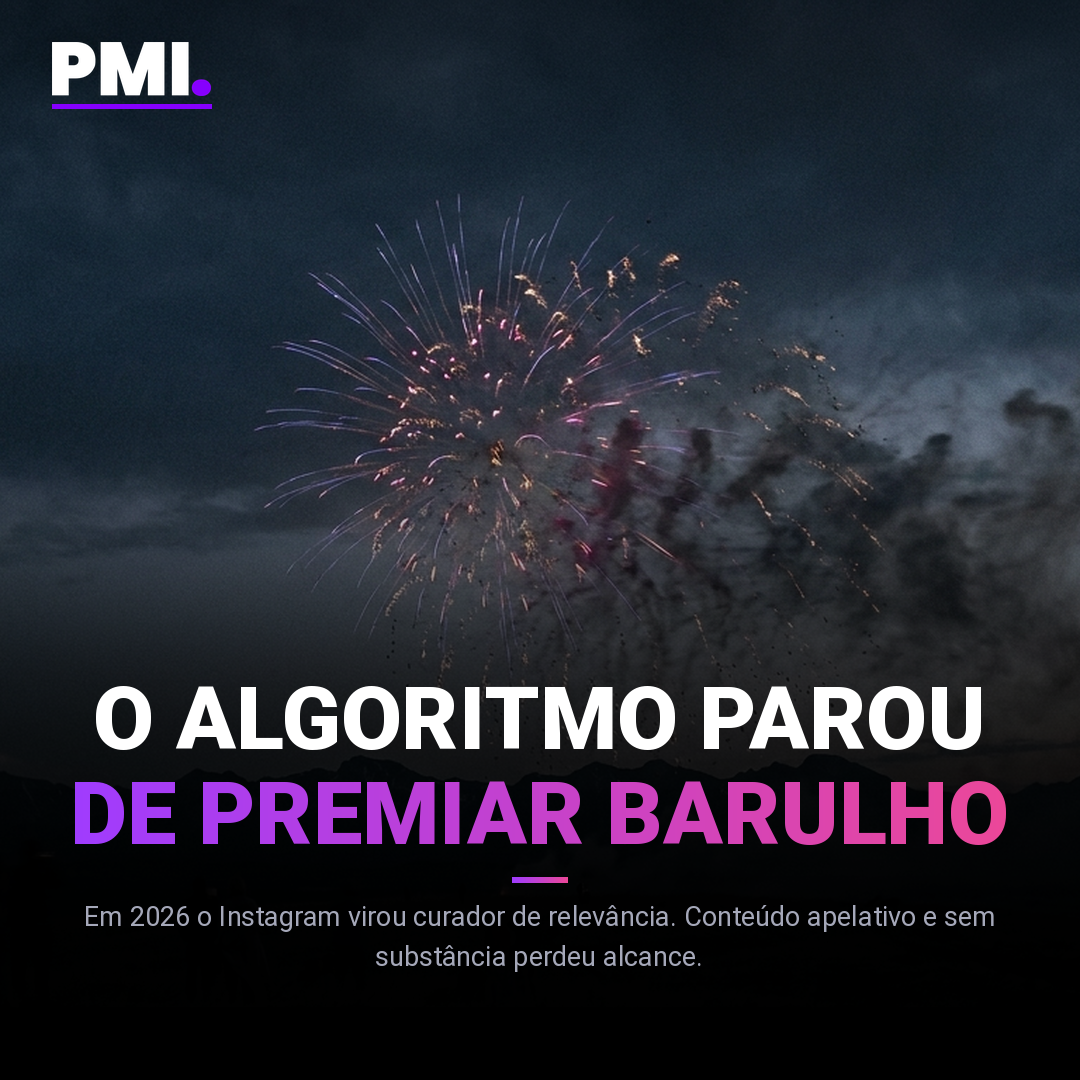
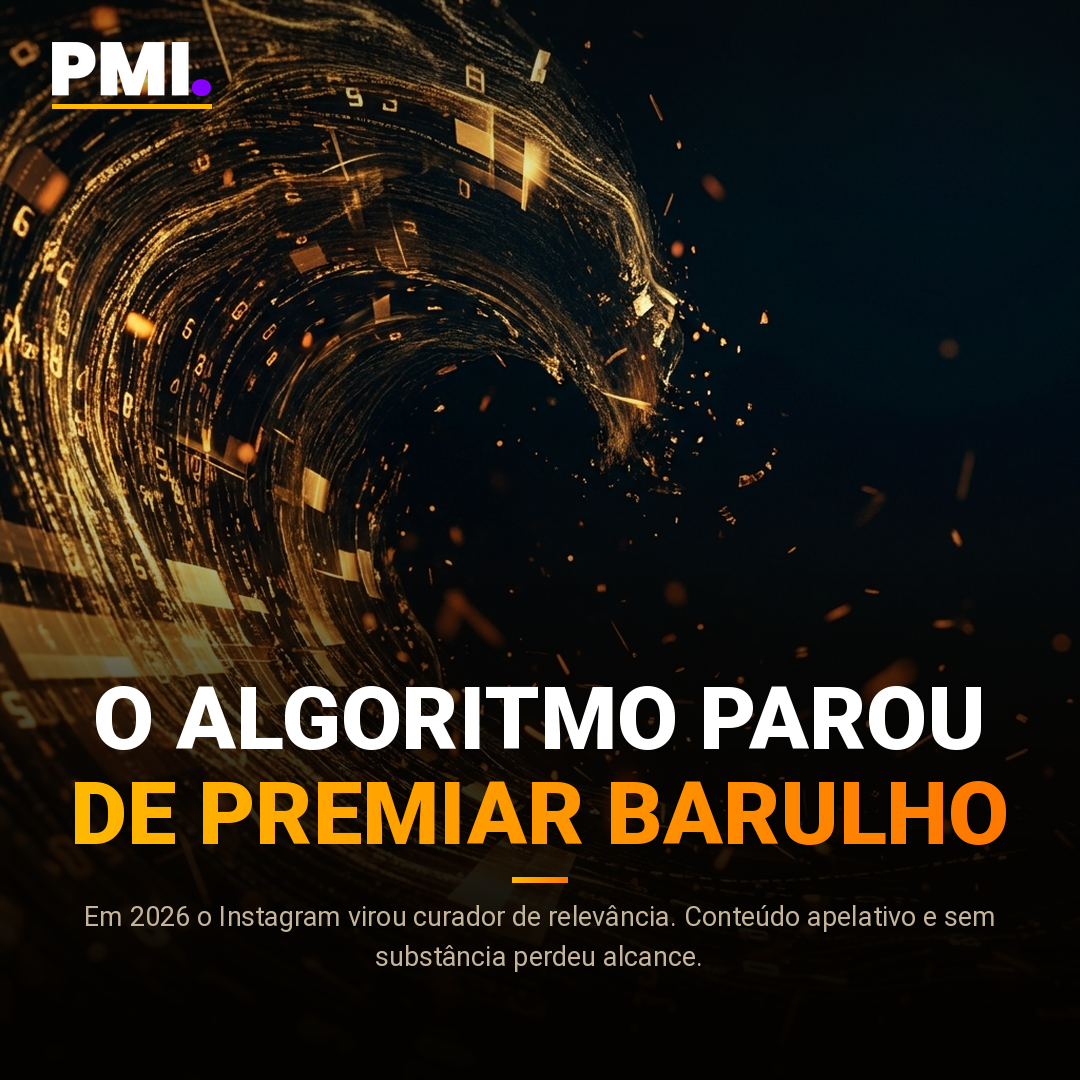
feat: carrossel 2 com identidade visual âmbar/dourado
Novos backgrounds fire editorial para C2, paleta completamente
diferente do C1 (violeta/rosa): gradientes dourado→laranja, overlay
warm tint, separador âmbar, tachado crimson em VIRAL, botões gold.

https://claude.ai/code/session_01S8Fw6EGhnFoALdeAFfWcbf

diff --git a/carrossel-pmi/build_carrossel_ia.py b/carrossel-pmi/build_carrossel_ia.py
@@ -7,11 +7,21 @@ import os
 W, H    = 1080, 1080
 MARGIN  = 60          # margem lateral
 MAX_W   = W - MARGIN*2
+
+# Paleta Carrossel 1 — Violeta/Rosa
 VIOLET  = (134, 0, 255)
 VLT     = (160, 60, 255)
 PINK    = (236, 72, 153)
+
+# Paleta Carrossel 2 — Âmbar/Dourado/Laranja
+GOLD    = (255, 185, 0)
+AMBER   = (255, 120, 0)
+CRIMSON = (200, 30, 30)   # tachado "VIRAL"
+CYAN2   = (0, 210, 190)   # separador C2
+
 WHITE   = (255, 255, 255)
 GRAY    = (165, 168, 185)
+WARM_GRAY = (195, 180, 155)  # subtítulo C2
 RED     = (220, 38, 38)
 
 R = "/usr/share/fonts/truetype/roboto/unhinted/RobotoTTF"
@@ -114,12 +124,44 @@ def darken_zone(canvas, y_top):
     base = canvas.convert("RGBA"); base.alpha_composite(tz)
     return base.convert("RGB")
 
-def sep_line(d, y, w=56):
+def sep_line(d, y, w=56, c1=None, c2=None):
+    if c1 is None: c1 = VLT
+    if c2 is None: c2 = PINK
     x = (W-w)//2
     for xi in range(w):
-        c = lerp(VLT, PINK, xi/max(1,w-1))
+        c = lerp(c1, c2, xi/max(1,w-1))
         d.line([(x+xi,y),(x+xi,y+5)], fill=c)
     return y+5
+
+# ── Overlay com tint quente (para C2) ─────────────────────────────
+def smoky_overlay_warm(img, top_s=140, bot_s=255, top_r=260, bot_r=660, blur=58):
+    """Mesmo smoky_overlay mas tint levemente âmbar escuro no fundo."""
+    ov = Image.new("RGBA", img.size, (0,0,0,0))
+    dv = ImageDraw.Draw(ov)
+    IW, IH = img.size
+    for y in range(top_r):
+        a = int(top_s * (1 - y/top_r)**1.8)
+        dv.line([(0,y),(IW,y)], fill=(10,5,0,a))
+    for y in range(IH-1, IH-bot_r-1, -1):
+        dist = IH - 1 - y
+        a = int(bot_s * (1 - dist / bot_r) ** 0.72)
+        dv.line([(0,y),(IW,y)], fill=(15,8,0,a))   # tint âmbar escuro
+    ov = ov.filter(ImageFilter.GaussianBlur(blur))
+    base = img.convert("RGBA"); base.alpha_composite(ov)
+    return base.convert("RGB")
+
+# ── Grad text C2 — dourado para laranja ───────────────────────────
+def grad_text_c2(canvas, d, text, font, x, y):
+    return grad_text(canvas, d, text, font, x, y, c1=GOLD, c2=AMBER)
+
+# ── Logo com barra âmbar (para C2) ────────────────────────────────
+def paste_logo_c2(canvas, lh=54, x=52, y=42):
+    logo = Image.open(LOGO).convert("RGBA")
+    lw = int(logo.width * lh / logo.height)
+    logo = logo.resize((lw, lh), Image.LANCZOS)
+    canvas.paste(logo, (x, y), logo)
+    d = ImageDraw.Draw(canvas)
+    d.rectangle([x, y+lh+8, x+lw, y+lh+12], fill=GOLD)
 
 # ── Blocos de texto centrado ───────────────────────────────────────
 def draw_sub(canvas, d, text, y, fnt_sz=27, color=GRAY):
@@ -180,6 +222,50 @@ def make_slide(bg_path, headlines, subtitle, out_path,
     y += 20
     y  = sep_line(d, y) + 18
     y  = draw_sub(canvas, d, subtitle, y)
+
+    if extra_fn:
+        extra_fn(canvas, d, y)
+
+    canvas.save(out_path)
+    print(f"✓ {os.path.basename(out_path)}")
+
+
+# ── Slide genérico C2 (paleta âmbar) ──────────────────────────────
+def make_slide_c2(bg_path, headlines, subtitle, out_path,
+                  centering=(0.5,0.5), h_start=100,
+                  top_s=140, bot_s=255, top_r=260, bot_r=660, blur=58,
+                  extra_fn=None):
+    canvas = smoky_overlay_warm(load_bg(bg_path, centering),
+                                top_s, bot_s, top_r, bot_r, blur)
+    paste_logo_c2(canvas)
+    d = ImageDraw.Draw(canvas)
+
+    h_sz, fnt_h = fit_font(d, headlines, "black", h_start)
+    lead = int(h_sz * 1.08)
+
+    fnt_s  = F("regular", 27)
+    sub_ls = wrap(d, subtitle, fnt_s)
+    sub_h  = len(sub_ls) * int(27*1.5)
+    extra_h = 80 if extra_fn else 0
+    block_h = lead*len(headlines) + 20 + 5 + 18 + sub_h + extra_h
+    y = max(H - 100 - block_h, 460)
+
+    canvas = darken_zone(canvas, y)
+    d = ImageDraw.Draw(canvas)
+
+    for i, line in enumerate(headlines):
+        lw = tw(d, line, fnt_h)
+        x  = (W - lw) // 2
+        if i == len(headlines)-1:
+            canvas = grad_text_c2(canvas, d, line, fnt_h, x, y)
+            d = ImageDraw.Draw(canvas)
+        else:
+            d.text((x, y), line, font=fnt_h, fill=WHITE)
+        y += lead
+
+    y += 20
+    y  = sep_line(d, y, c1=GOLD, c2=AMBER) + 18
+    y  = draw_sub(canvas, d, subtitle, y, color=WARM_GRAY)
 
     if extra_fn:
         extra_fn(canvas, d, y)
@@ -294,14 +380,14 @@ def c1_slide05():
 
 
 # ══════════════════════════════════════════════════════════════════
-# CARROSSEL 2 — "VIRAL ESTÁ MORTO"
+# CARROSSEL 2 — "VIRAL ESTÁ MORTO" (paleta âmbar/dourado)
 # ══════════════════════════════════════════════════════════════════
 
 def c2_slide01():
-    # Especial: "VIRAL" com tachado + segunda linha gradiente
-    canvas = smoky_overlay(load_bg(f"{BG}/bg_viral_slide01.png"),
-                           140, 252, 260, 640, 58)
-    paste_logo(canvas)
+    # Especial: "VIRAL" tachado crimson + "ESTÁ MORTO." gradiente dourado
+    canvas = smoky_overlay_warm(load_bg(f"{BG}/bg2_viral_slide01.png"),
+                                130, 255, 255, 660, 60)
+    paste_logo_c2(canvas)
     d = ImageDraw.Draw(canvas)
 
     headlines = ["VIRAL", "ESTÁ MORTO."]
@@ -316,27 +402,27 @@ def c2_slide01():
     canvas = darken_zone(canvas, y)
     d = ImageDraw.Draw(canvas)
 
-    # "VIRAL" branco + tachado vermelho
+    # "VIRAL" branco + tachado crimson
     lw1 = tw(d,"VIRAL",fnt_h); lh1 = th(d,"VIRAL",fnt_h)
     x1  = (W-lw1)//2
     d.text((x1, y), "VIRAL", font=fnt_h, fill=WHITE)
     mid = y + lh1//2
-    d.line([(x1-6, mid),(x1+lw1+6, mid)], fill=RED, width=max(8, h_sz//14))
+    d.line([(x1-6, mid),(x1+lw1+6, mid)], fill=CRIMSON, width=max(8, h_sz//14))
     y += lead
 
-    # "ESTÁ MORTO." gradiente
+    # "ESTÁ MORTO." gradiente dourado
     lw2 = tw(d,"ESTÁ MORTO.",fnt_h)
-    canvas = grad_text(canvas, d, "ESTÁ MORTO.", fnt_h, (W-lw2)//2, y)
+    canvas = grad_text_c2(canvas, d, "ESTÁ MORTO.", fnt_h, (W-lw2)//2, y)
     d = ImageDraw.Draw(canvas)
     y += lead
 
-    y += 20; y = sep_line(d, y) + 18
-    draw_sub(canvas, d, "E quem ainda corre atrás disso está perdendo tempo, dinheiro e posicionamento.", y)
+    y += 20; y = sep_line(d, y, c1=GOLD, c2=AMBER) + 18
+    draw_sub(canvas, d, "E quem ainda corre atrás disso está perdendo tempo, dinheiro e posicionamento.", y, color=WARM_GRAY)
     canvas.save(f"{OUT}/c2_slide01.png"); print("✓ c2_slide01")
 
 def c2_slide02():
-    make_slide(
-        f"{BG}/bg_viral_slide02.png",
+    make_slide_c2(
+        f"{BG}/bg2_viral_slide02.png",
         ["O ALGORITMO PAROU", "DE PREMIAR BARULHO"],
         "Em 2026 o Instagram virou curador de relevância. Conteúdo apelativo e sem substância perdeu alcance.",
         f"{OUT}/c2_slide02.png",
@@ -344,8 +430,8 @@ def c2_slide02():
     )
 
 def c2_slide03():
-    make_slide(
-        f"{BG}/bg_viral_slide03.png",
+    make_slide_c2(
+        f"{BG}/bg2_viral_slide03.png",
         ["1 MILHÃO DE VIEWS DE QUEM", "NÃO COMPRA NÃO PAGA BOLETO."],
         "Alcance sem retenção é vaidade. Quem retém audiência qualificada vende. Quem viraliza pra nada, some.",
         f"{OUT}/c2_slide03.png",
@@ -353,8 +439,8 @@ def c2_slide03():
     )
 
 def c2_slide04():
-    make_slide(
-        f"{BG}/bg_viral_slide04.png",
+    make_slide_c2(
+        f"{BG}/bg2_viral_slide04.png",
         ["O QUE REALMENTE", "FUNCIONA AGORA"],
         "Conteúdo que resolve. Que ensina. Que posiciona. Consistência bate viral eventual toda semana.",
         f"{OUT}/c2_slide04.png",
@@ -364,7 +450,7 @@ def c2_slide04():
 def c2_slide05():
     def extra(canvas, d, y):
         fnt_b  = F("bold", 28)
-        labels = [("SIM", VIOLET), ("NÃO", PINK)]
+        labels = [("SIM", GOLD), ("NÃO", AMBER)]
         btns   = [(lbl, col, tw(d,lbl,fnt_b)+52, th(d,lbl,fnt_b)+22)
                   for lbl, col in labels]
         total  = sum(b[2] for b in btns) + 20
@@ -375,10 +461,10 @@ def c2_slide05():
             d.text((bx+(bw-tw(d,lbl,fnt_b))//2, y2+(bh-th(d,lbl,fnt_b))//2),
                    lbl, font=fnt_b, fill=WHITE)
             bx += bw+20
-        draw_sub(canvas, d, "Curioso pra saber a proporção.", y2+btns[0][3]+14)
+        draw_sub(canvas, d, "Curioso pra saber a proporção.", y2+btns[0][3]+14, color=WARM_GRAY)
 
-    make_slide(
-        f"{BG}/bg_viral_slide05.png",
+    make_slide_c2(
+        f"{BG}/bg2_viral_slide05.png",
         ["PARA DE PERSEGUIR VIRAL.", "CONSTRÓI AUTORIDADE."],
         "",
         f"{OUT}/c2_slide05.png",
